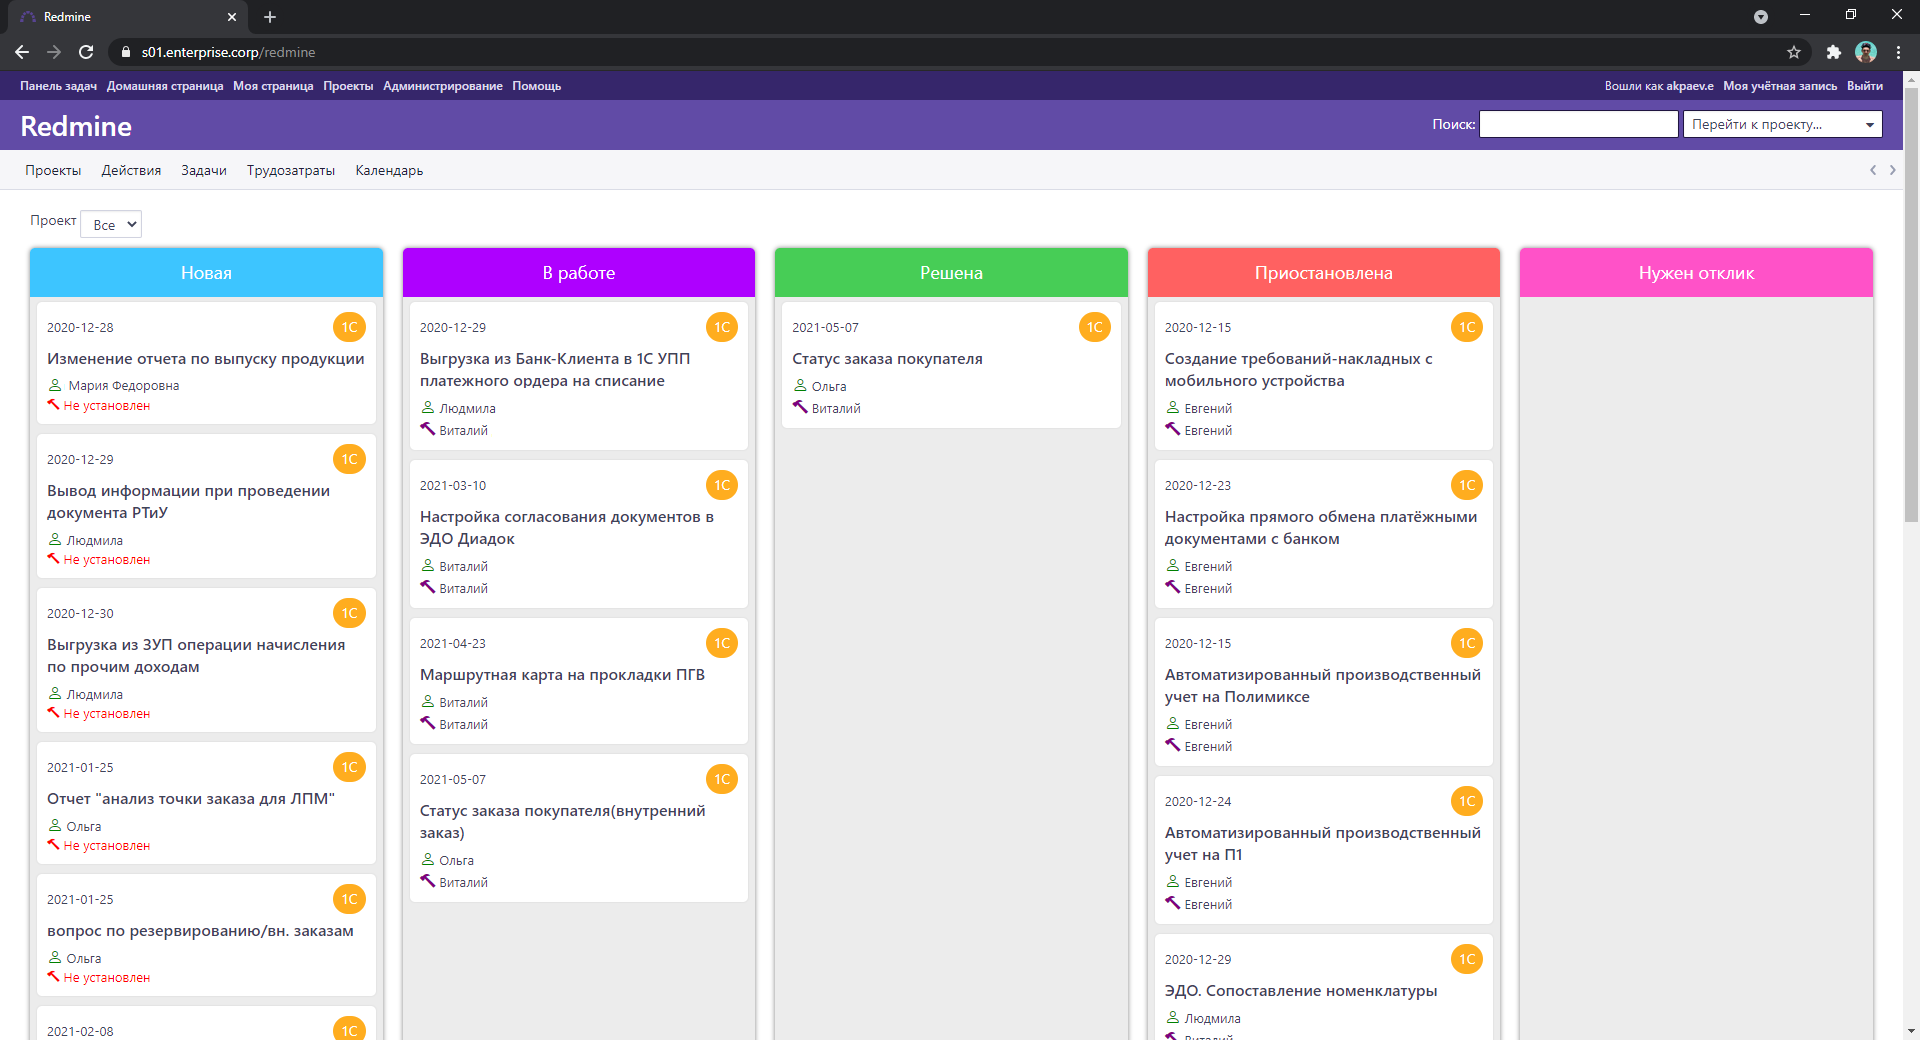
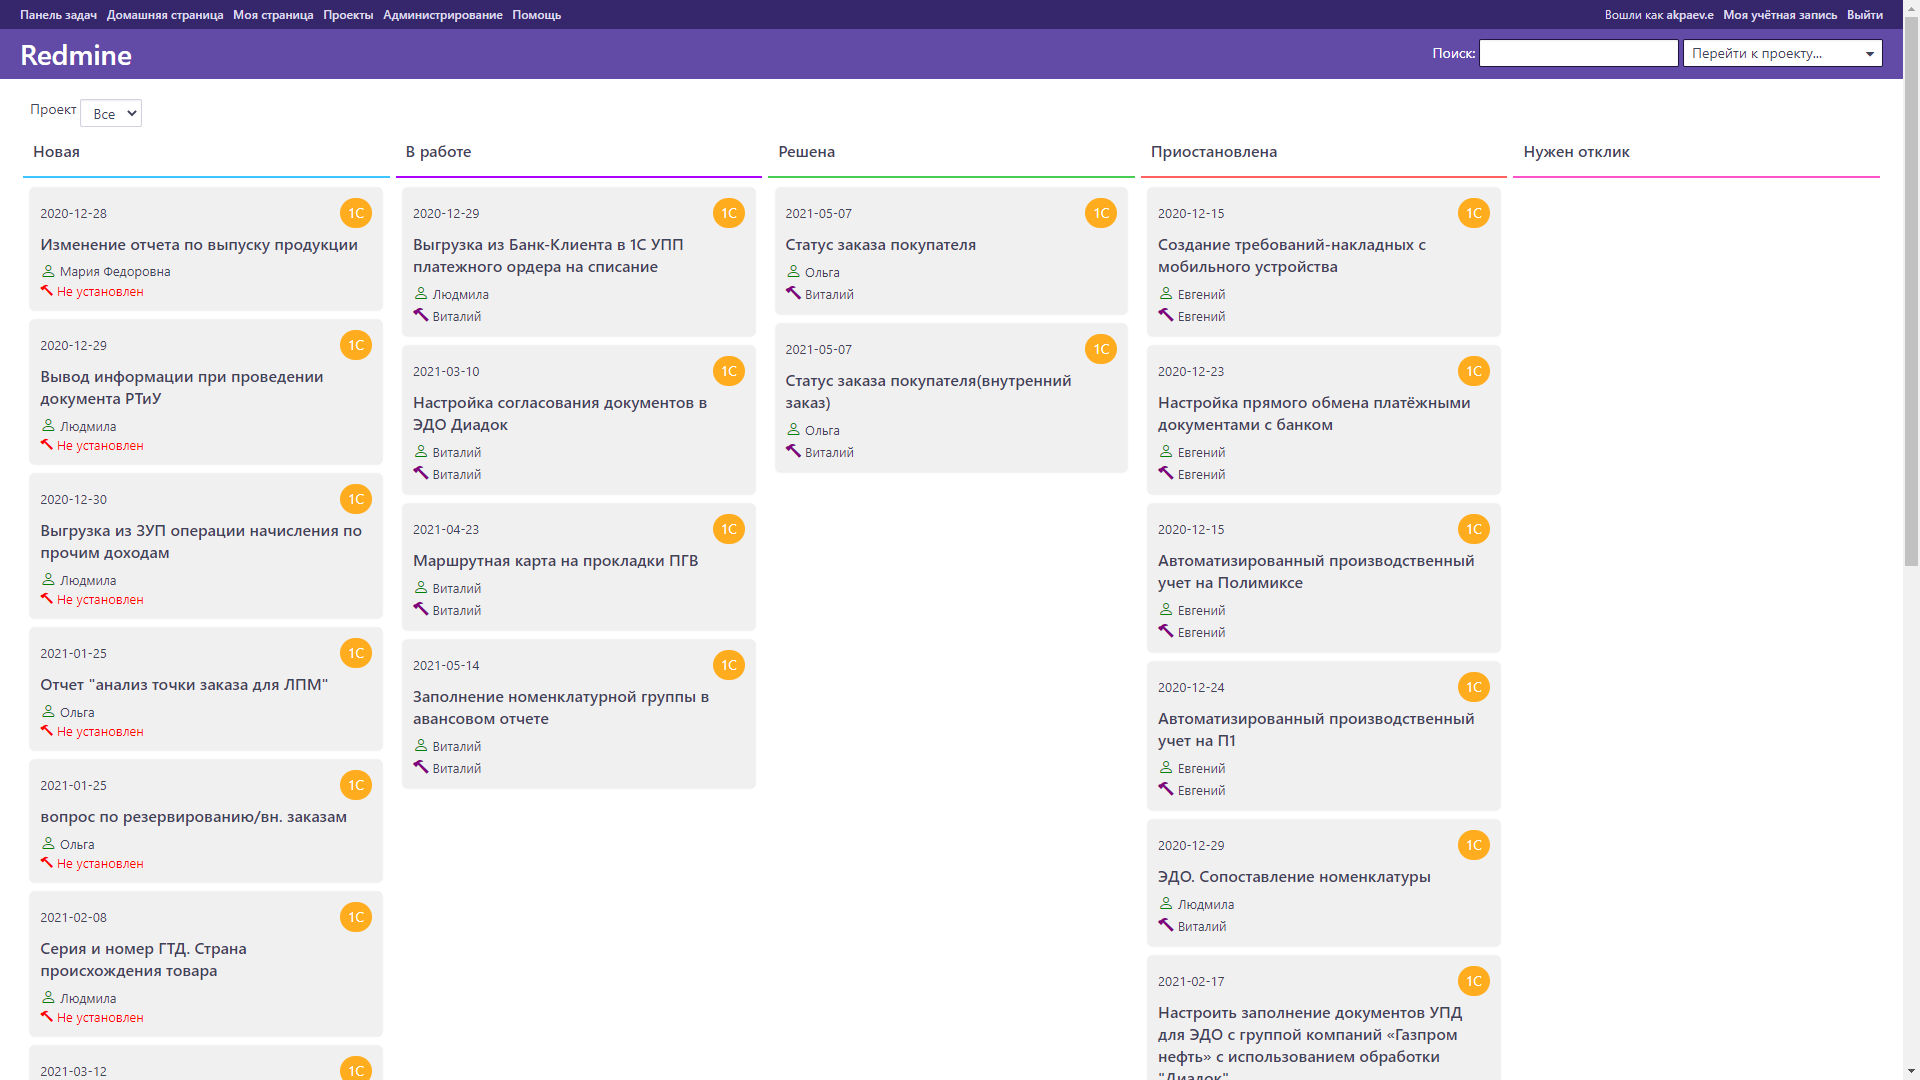
Redesign

diff --git a/assets/stylesheets/style.css b/assets/stylesheets/style.css
@@ -7,25 +7,25 @@
 .status_column {
     display: inline-flex;
     border-radius: 5px;
-    background-color: rgb(236, 236, 236);
     width: 100%;
-    height: 100%;
-    margin: 10px;
+    margin-left: 3px;
+    margin-right: 3px;
     flex-direction: column;
-    box-shadow: 0px 0px 5px 0px gray;
 }
 
 .status_column_header {
     display: flex;
-    border-top-left-radius: 5px;
-    border-top-right-radius: 5px;
-    background-color: rgb(169, 144, 238);
     width: 100%;
     height: 50px;
     align-items: center;
-    justify-content: center;
-    color: white;
-    font-size: large;
+    font-size: medium;
+    font-weight: 500;
+    margin-bottom: 5px;
+    border-bottom: 2px solid;
+}
+
+.status_column_header span {
+    margin-left: 10px;
 }
 
 .status_column_issues {
@@ -47,7 +47,7 @@
     margin-top: 5px;
     padding-top: 5px;
     padding-bottom: 5px;
-    background-color: white;
+    background-color: rgb(240, 240, 240);
     margin-bottom: 5px;
     align-items: flex-start;
     flex-direction: column;
@@ -56,7 +56,7 @@
 }
 
 .issue_card:hover {
-    background-color: rgb(248, 248, 248);
+    background-color: rgb(220, 220, 220);
     cursor: pointer;
 }
 

diff --git a/assets/javascripts/script.js b/assets/javascripts/script.js
@@ -15,6 +15,8 @@ function goToIssue(id) {
 }
 
 function init() {
+    document.querySelector('#main-menu').remove();
+
     document.querySelector('[name=project]').addEventListener('change', function(e) {
         if (this.value == "-1") {
             location.search = "";

diff --git a/init.rb b/init.rb
@@ -2,7 +2,7 @@ Redmine::Plugin.register :dashboard do
   name 'Dashboard'
   author "Akpaev E.A."
   description "Plugin adds an issues dashboard to the application"
-  version '1.0.4'
+  version '1.0.5'
   url 'https://github.com/akpaevj/Dashboard'
   author_url 'https://github.com/akpaevj'
   menu :top_menu, :dashboard, { controller: 'dashboard', action: 'index' }, caption: :top_menu_item_title, first: true

diff --git a/app/controllers/dashboard_controller.rb b/app/controllers/dashboard_controller.rb
@@ -10,6 +10,7 @@ class DashboardController < ApplicationController
     @statuses = getData(@selected_project_id)
     @projects = getProjects(@selected_project_id)
   end
+  
 end
 
 private

diff --git a/config/routes.rb b/config/routes.rb
@@ -1,1 +1,2 @@
 get 'dashboard', to: 'dashboard#index'
+get 'dashboard/setIssueStatus', to: 'dashboard#setIssueStatus'
